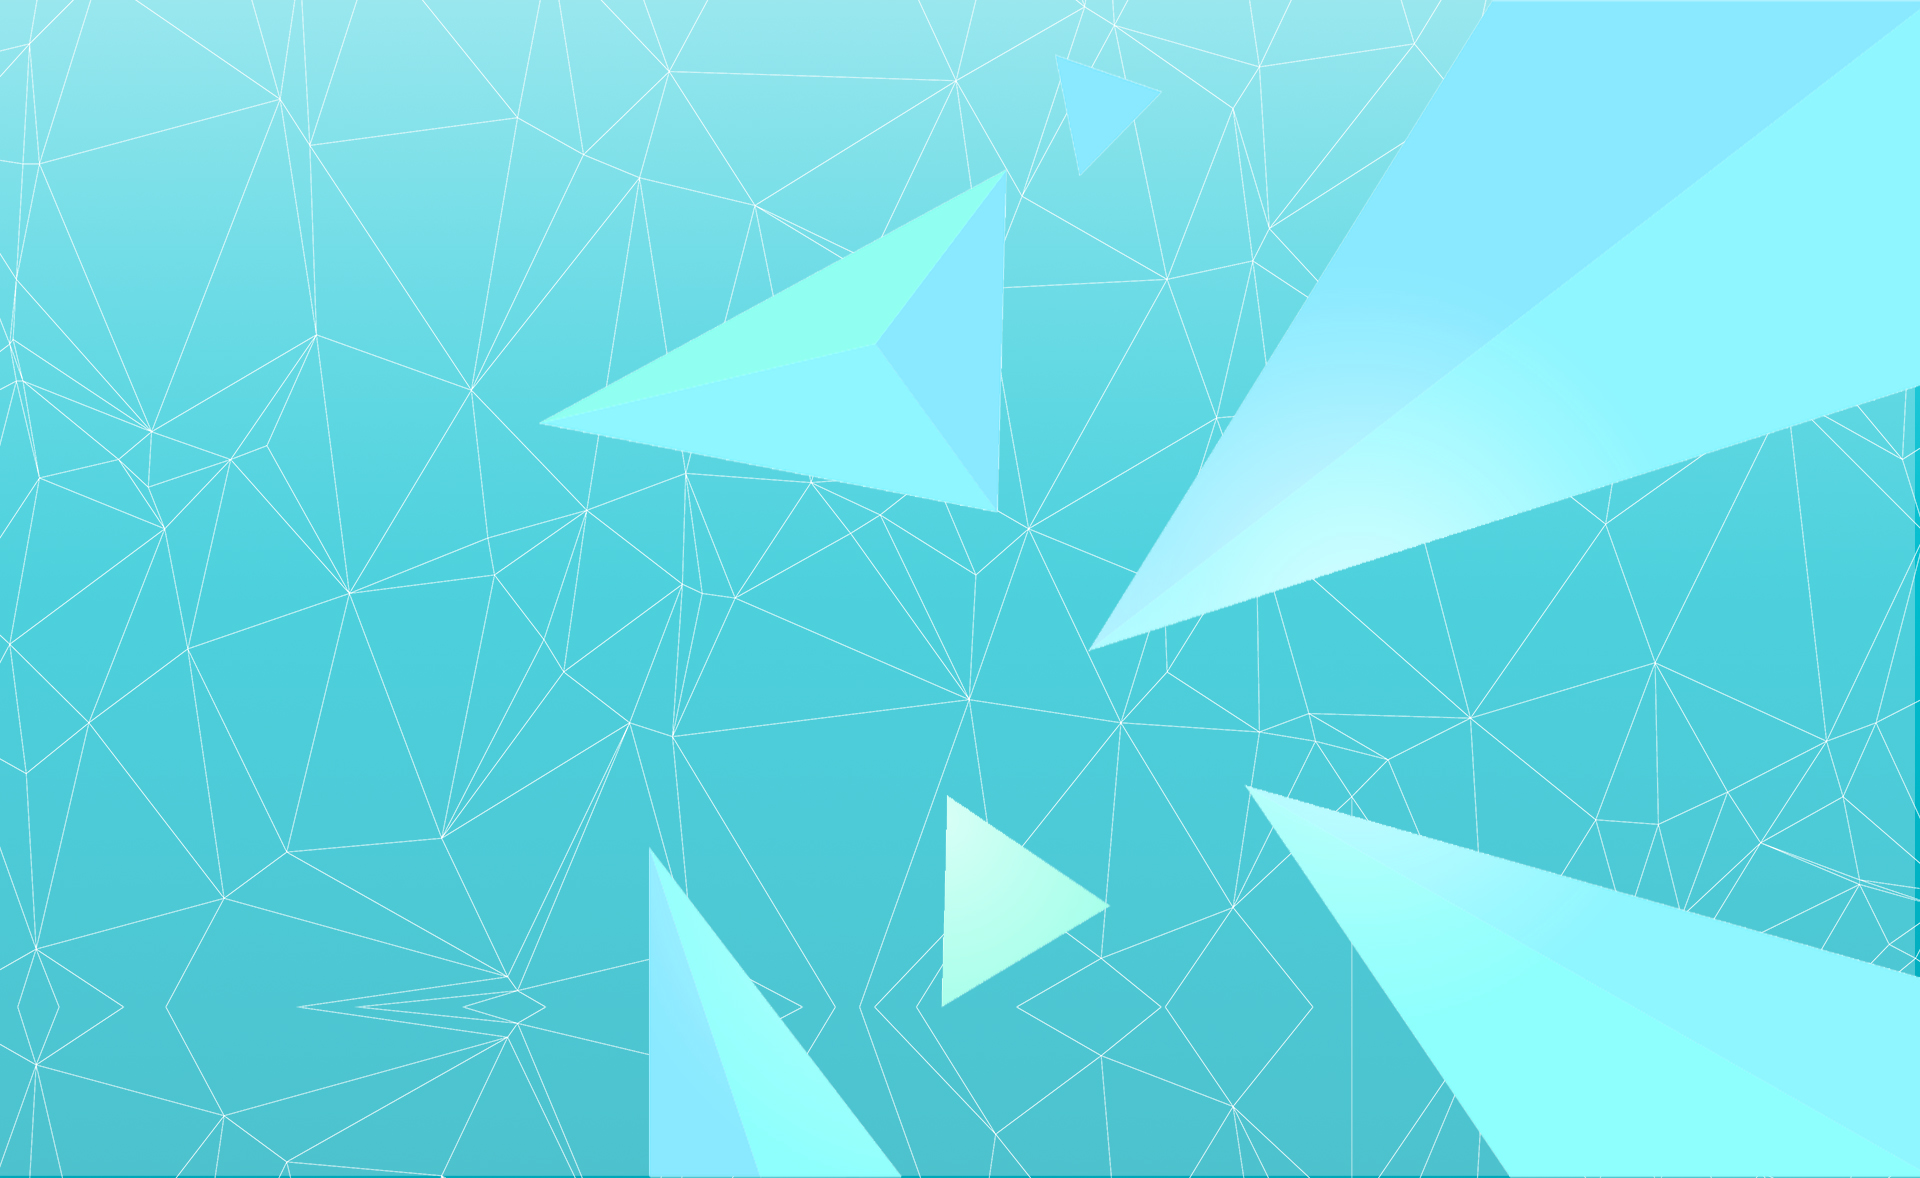
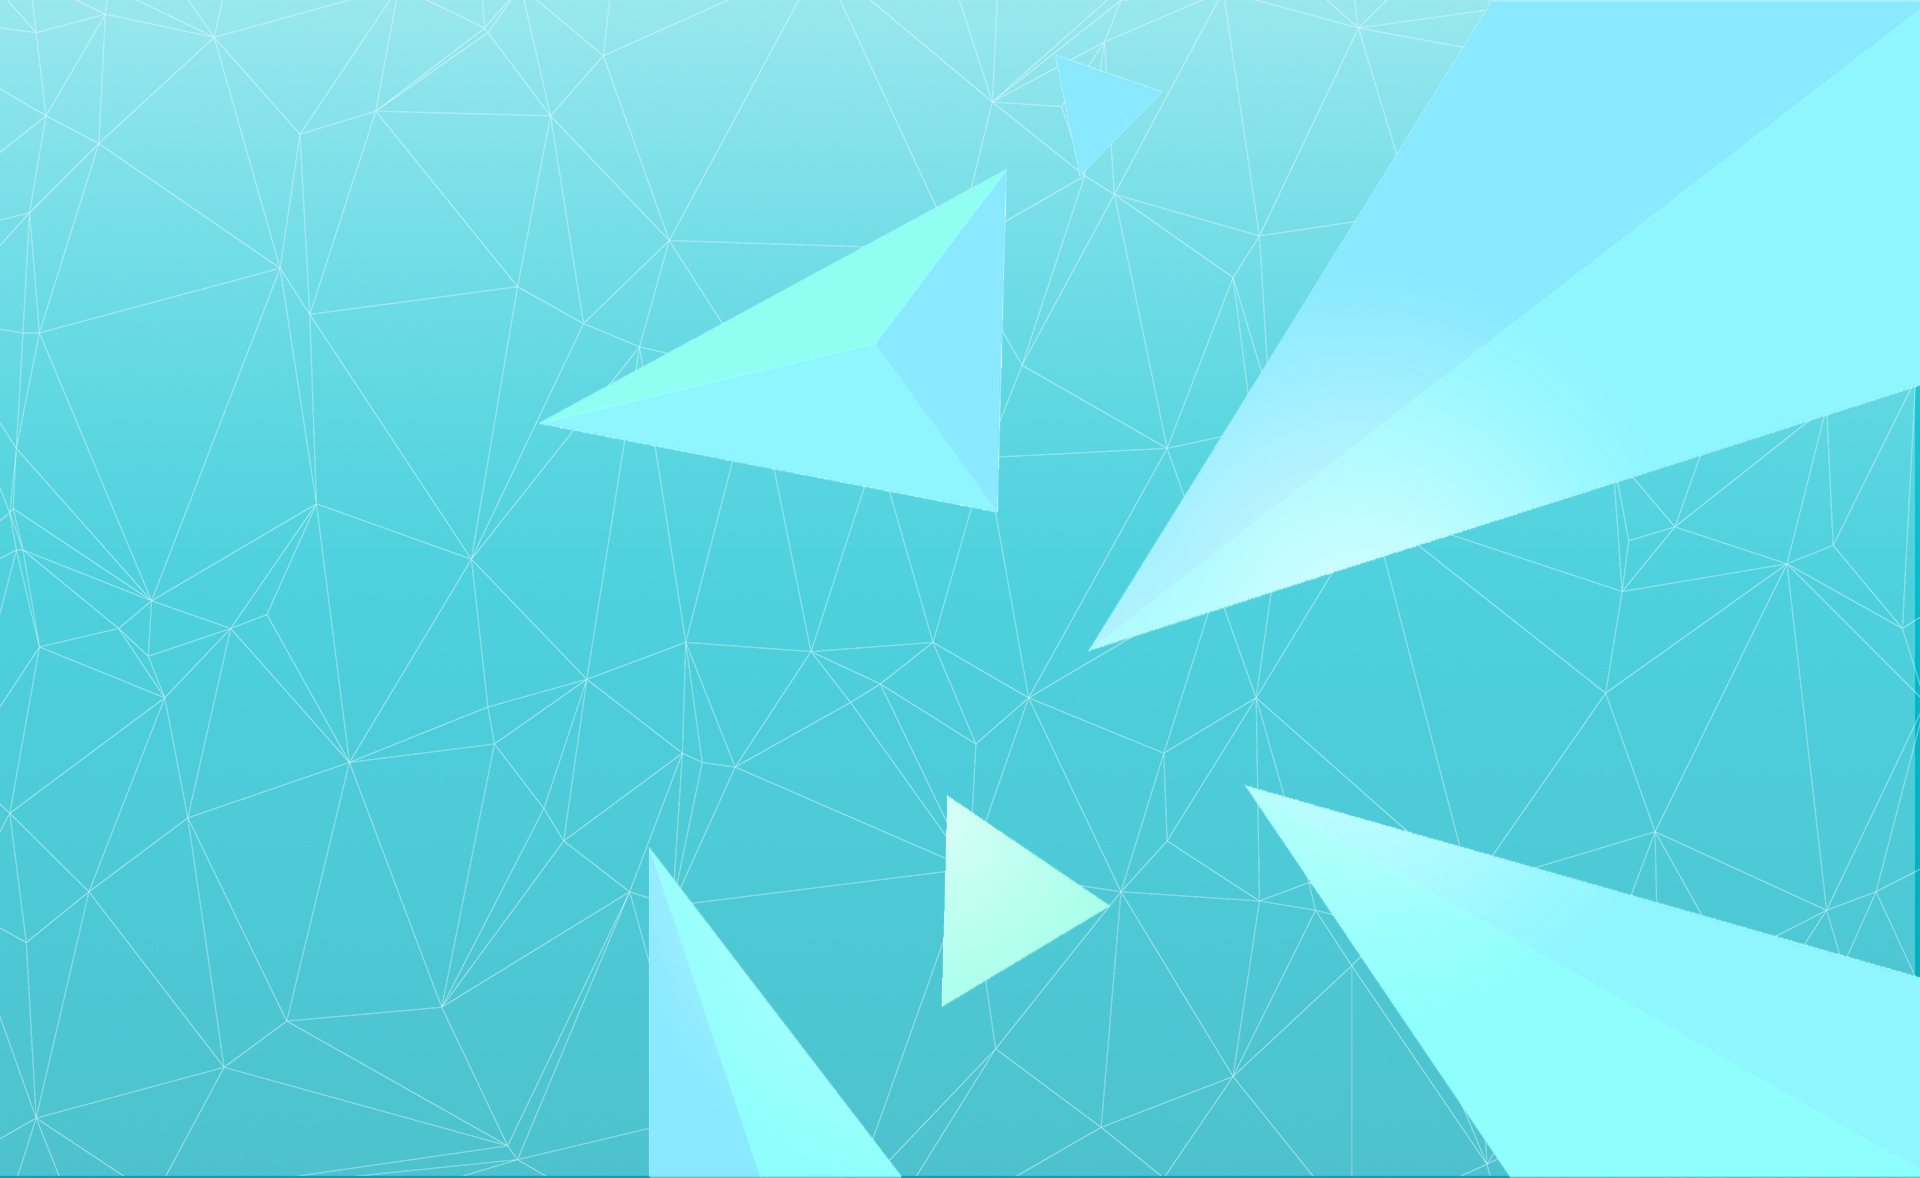
add parallax at polygon image

diff --git a/app/assets/javascripts/components/index/sections/index/desktop/wrapper.jsx b/app/assets/javascripts/components/index/sections/index/desktop/wrapper.jsx
@@ -1,7 +1,7 @@
 class Desktop extends React.Component {
 	render() {
 		return (
-			<div className="uk-width-1-1 event-info uk-flex uk-flex-center">
+			<div className="uk-width-1-1 event-info uk-flex uk-flex-center" data-uk-parallax={ $(window).width() > 768 ? "{bgp: '250'}" : ""} >
 				<div className="event-info-wrapper uk-width-1-1 uk-flex uk-flex-center uk-margin-bottom">
 					<div className="uk-width-medium-1-4 uk-width-large-1-4 uk-width-small-1-1 uk-flex uk-flex-center uk-flex-middle uk-margin-bottom uk-container-center">
 						<div className="uk-width-1-6 uk-flex uk-flex-center">

diff --git a/app/assets/stylesheets/index-static.scss b/app/assets/stylesheets/index-static.scss
@@ -12,7 +12,7 @@
 
 .event-info {
   background-image: url(asset-path('polygon.svg'));
-  background-size: 100%;
+  background-size: 100% !important;
   background-repeat: no-repeat;
 }
 
@@ -33,7 +33,7 @@
   }
   .event-info {
     background-image: url(asset-path('polygon-mobile.png'));
-    background-size: 100% 100%;
+    background-size: 100% 100% !important;
     padding-top: 15vh;
     padding-bottom: 10vh;
     margin-bottom: 13vh;

diff --git a/app/assets/javascripts/application.js b/app/assets/javascripts/application.js
@@ -21,5 +21,6 @@ require('./libs/uikit/js/uikit.min.js');
 /* load js after the page has been loaded by turbolinks */
 $( document ).on('turbolinks:load', function() {
   require('./libs/uikit/js/components/sticky.js');
+  require('./libs/uikit/js/components/parallax.min.js');
   require('./libs/anchor.js');
 });

diff --git a/app/assets/stylesheets/schedule-static.scss b/app/assets/stylesheets/schedule-static.scss
@@ -7,7 +7,8 @@
 
 #schedule-section{
     background-image : url(asset-path('BG5.jpeg'));
-    background-size: 100%;
+    background-size: 100% !important;
+    background-repeat: repeat !important;
     padding-top: 50px;
     padding-bottom: 50px;
     h2, p, h3,h4{
